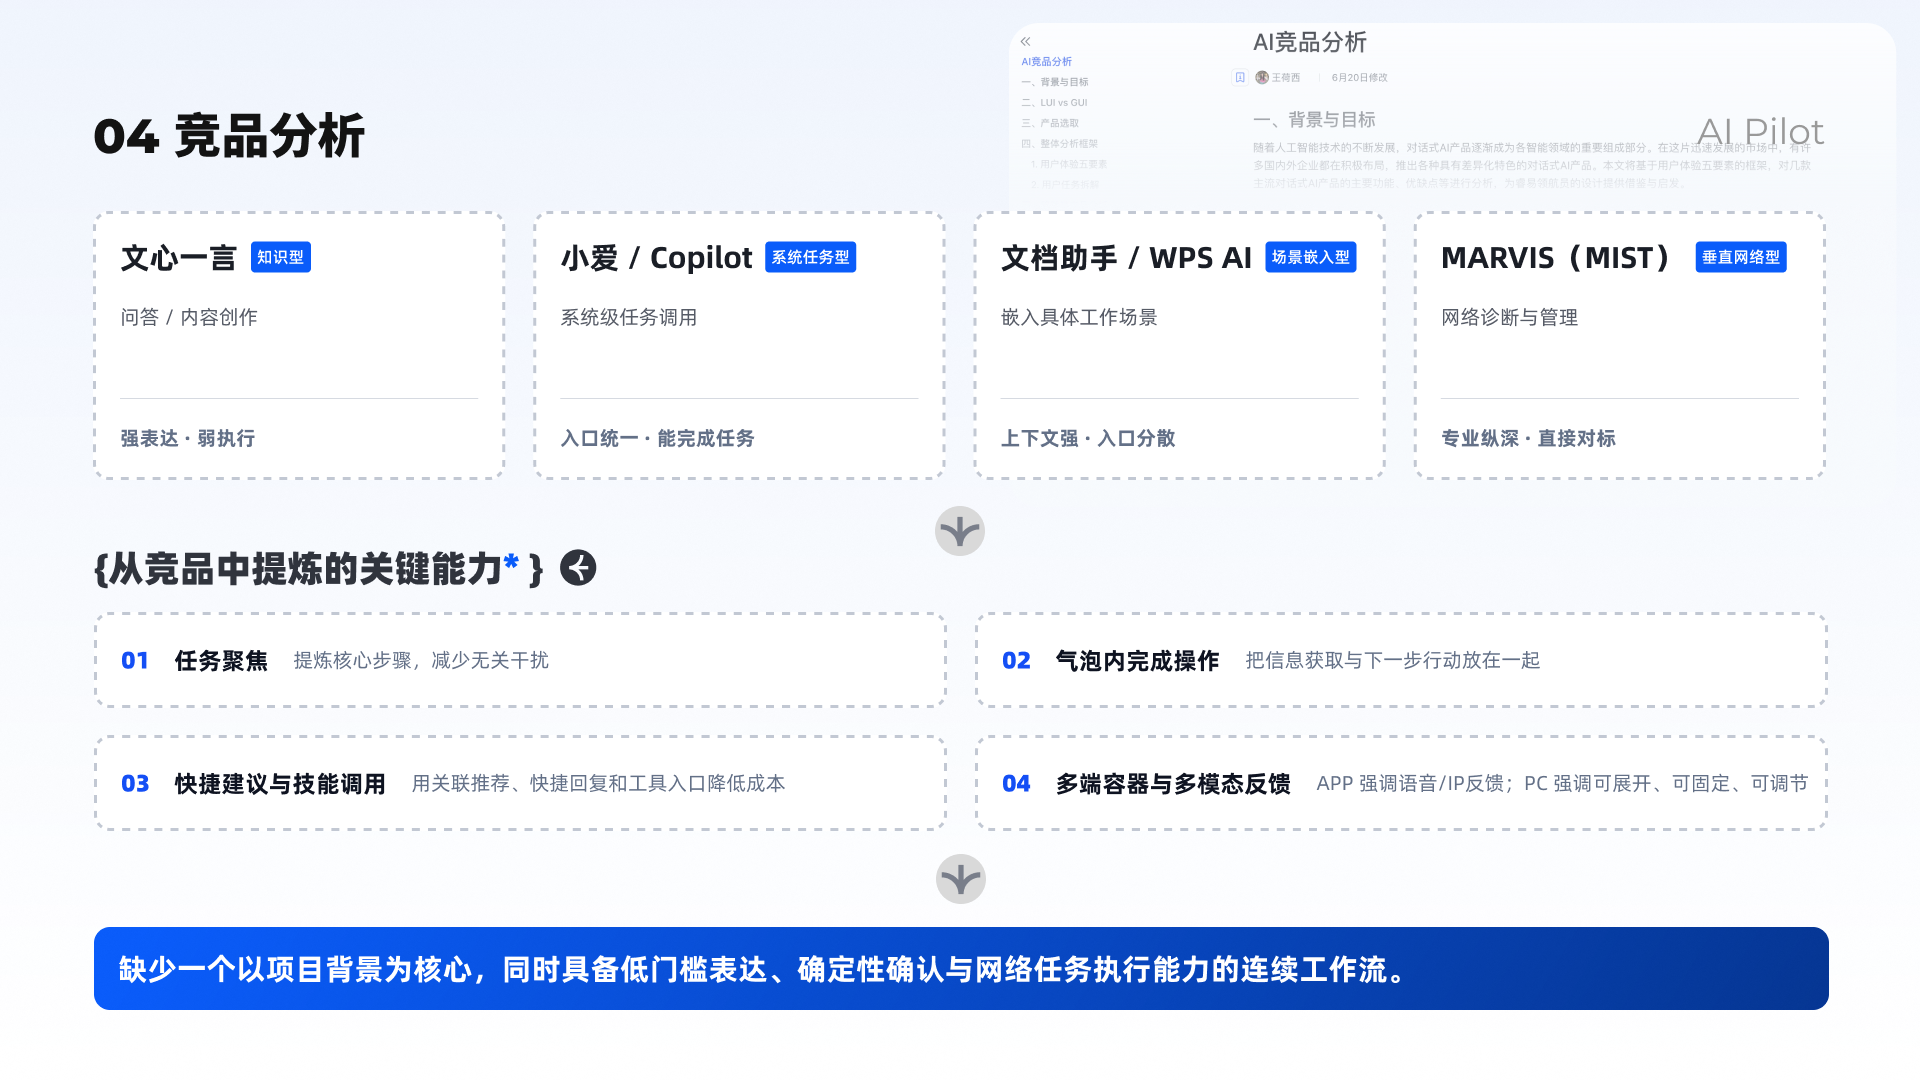
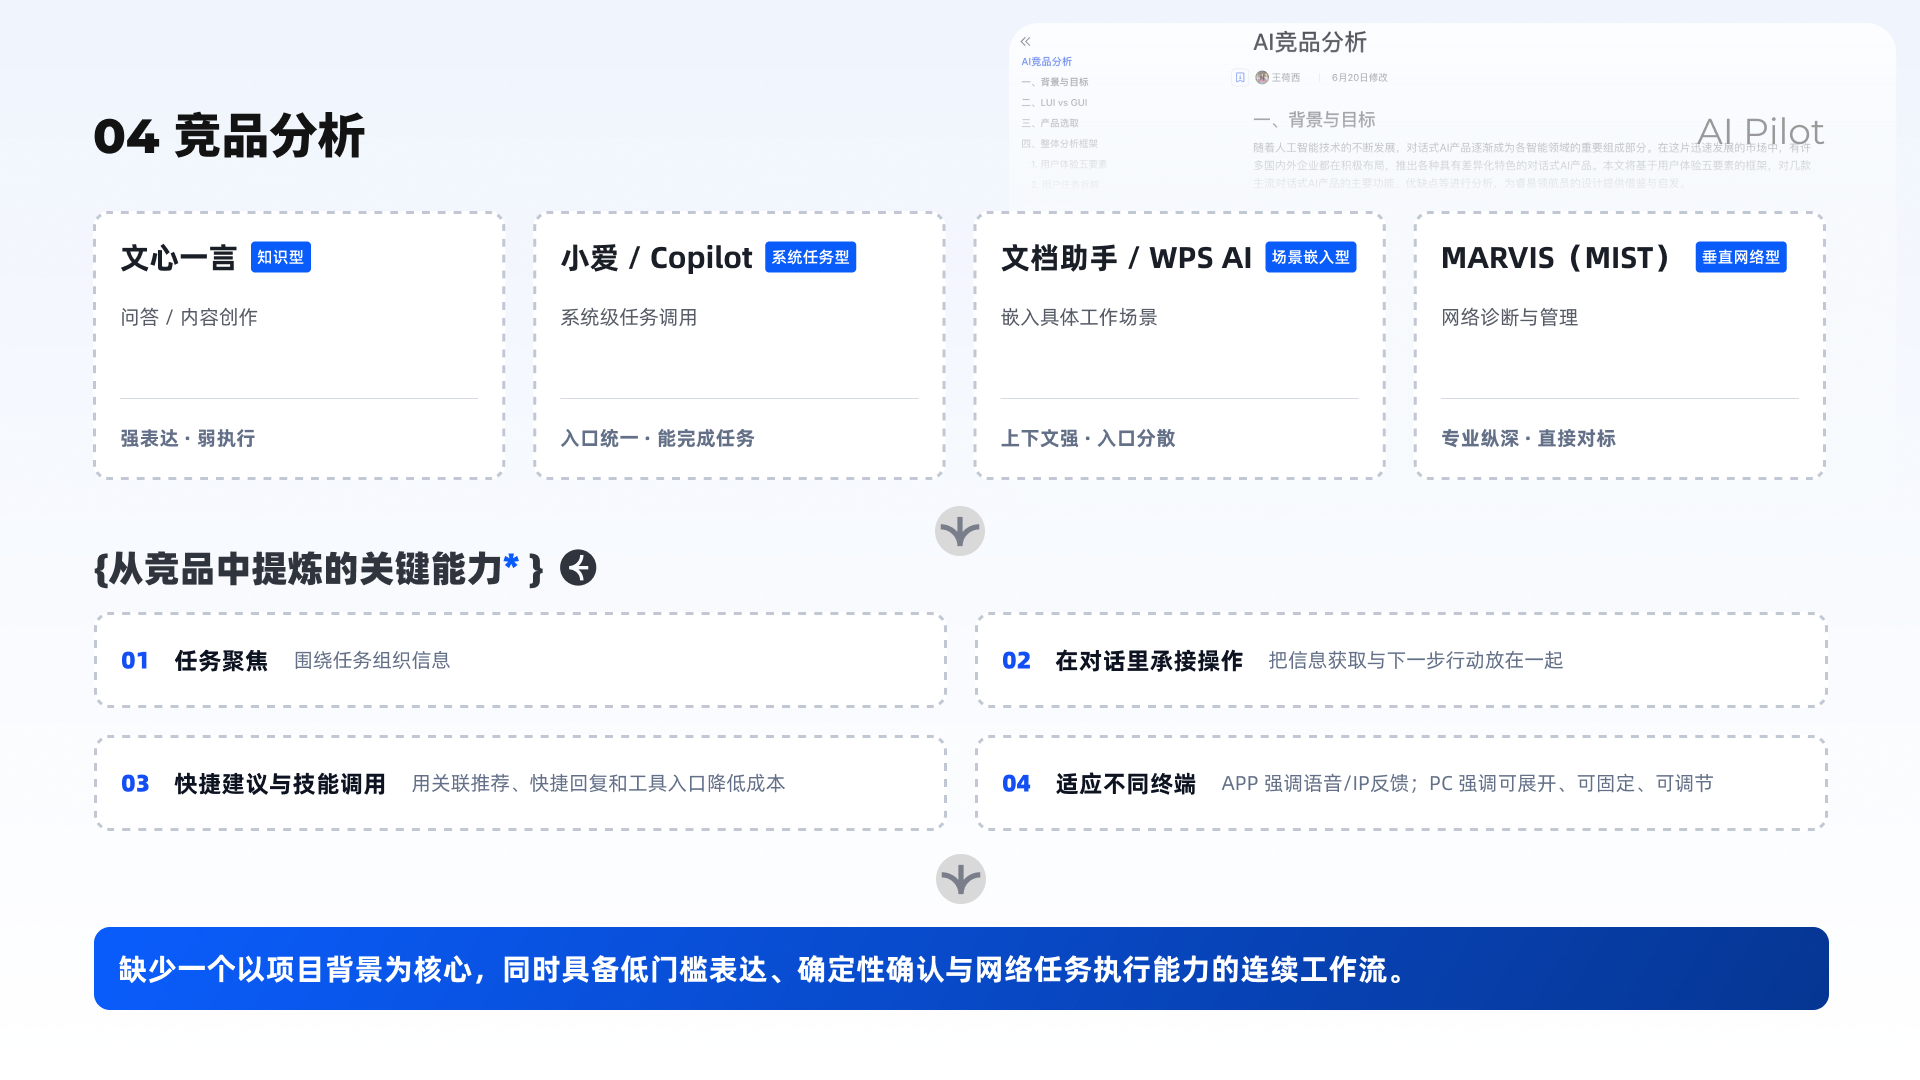
Update AI Pilot competitor analysis frame 2508:102844 only

Changed region(s): [[0.5625, 0.5806, 0.8125, 0.6417], [0.5312, 0.7028, 0.9375, 0.7333], [0.1562, 0.5806, 0.25, 0.6417]]

diff --git a/ai-pilot.html b/ai-pilot.html
@@ -13,7 +13,7 @@
 <section class="case-panel" aria-label="项目概览" data-figma-node="2508:101774"><img src="assets/ai-pilot/page-02.webp?v=6bc1ff0d5e8c" width="1920" height="1080" alt="02 · 项目概览" loading="lazy" decoding="async" ></section>
 <section class="case-panel" aria-label="背景与挑战" data-figma-node="2508:101625"><img src="assets/ai-pilot/page-03.webp" width="1920" height="1080" alt="03 · 背景与挑战" loading="lazy" decoding="async" ></section>
 <section class="case-panel" aria-label="用户痛点" data-figma-node="2508:102028"><img src="assets/ai-pilot/page-04.webp" width="1920" height="1080" alt="04 · 用户痛点" loading="lazy" decoding="async" ></section>
-<section class="case-panel" aria-label="竞品分析" data-figma-node="2508:102844"><img src="assets/ai-pilot/page-05.webp" width="1920" height="1080" alt="05 · 竞品分析" loading="lazy" decoding="async" ></section>
+<section class="case-panel" aria-label="竞品分析" data-figma-node="2508:102844"><img src="assets/ai-pilot/page-05.webp?v=0a80ebff48e3" width="1920" height="1080" alt="05 · 竞品分析" loading="lazy" decoding="async" ></section>
 <section class="case-panel" aria-label="设计策略" data-figma-node="2508:101909"><img src="assets/ai-pilot/page-06.webp" width="1920" height="1080" alt="06 · 设计策略" loading="lazy" decoding="async" ></section>
 <section class="case-panel" aria-label="Agent IP 定位" data-figma-node="2508:104477"><img src="assets/ai-pilot/page-07.webp" width="1920" height="1080" alt="07 · Agent IP 定位" loading="lazy" decoding="async" ></section>
 <section class="case-panel" aria-label="Agent IP 形象推导" data-figma-node="2508:104658"><img src="assets/ai-pilot/page-08.webp" width="1920" height="1080" alt="08 · Agent IP 形象推导" loading="lazy" decoding="async" ></section>
